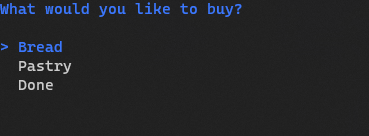
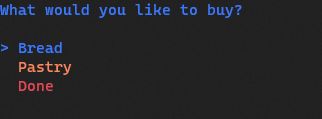
Change first input colors

Changed region(s): [[0.0, 0.3025, 0.2174, 0.7815], [0.0, 0.0, 0.7764, 0.1513]]

diff --git a/BakeryApp/Program.cs b/BakeryApp/Program.cs
@@ -78,9 +78,9 @@ namespace BakeryApp
           new SelectionPrompt<string>()
               .Title("[blue]What would you like to buy?[/]")
               .PageSize(3)
-              .AddChoices(new[] { "Bread", "Pastry", "Done" })).ToLower();
+              .AddChoices(new[] { "[darkorange3]Bread[/]", "[salmon1]Pastry[/]", "[red]Done[/]" }));
       Console.Clear();
-      return result;
+      return result.Split("]", 2)[1].Replace("[/]", "").ToLower();
     }
     public static string OpenBreadMenu()
     {
